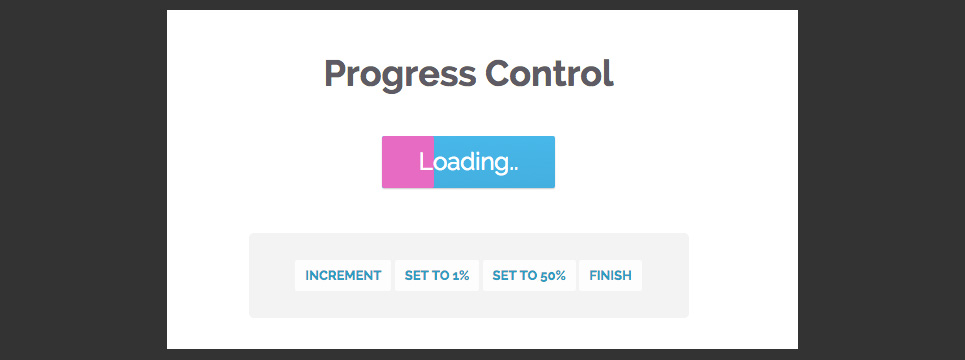
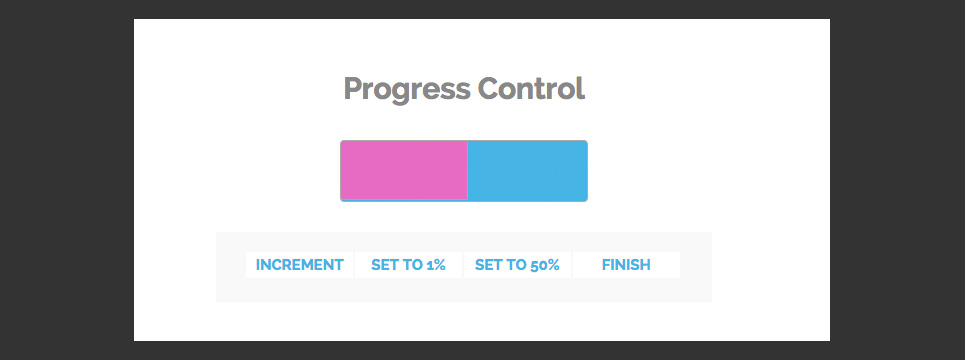
Component 10

diff --git a/components/10/jquery-ui.min.css b/components/10/jquery-ui.min.css
@@ -1,0 +1,7 @@
+/*! jQuery UI - v1.11.4 - 2015-08-01
+* http://jqueryui.com
+* Includes: core.css, progressbar.css, theme.css
+* To view and modify this theme, visit http://jqueryui.com/themeroller/
+* Copyright 2015 jQuery Foundation and other contributors; Licensed MIT */
+
[1 lines of base64/hex data omitted]

diff --git a/components/10/jquery-ui.min.js b/components/10/jquery-ui.min.js
@@ -1,0 +1,6 @@
+/*! jQuery UI - v1.11.4 - 2015-08-01
+* http://jqueryui.com
+* Includes: core.js, widget.js, progressbar.js
+* Copyright 2015 jQuery Foundation and other contributors; Licensed MIT */
+
+(function(e){"function"==typeof define&&define.amd?define(["jquery"],e):e(jQuery)})(function(e){function t(t,s){var n,a,o,r=t.nodeName.toLowerCase();return"area"===r?(n=t.parentNode,a=n.name,t.href&&a&&"map"===n.nodeName.toLowerCase()?(o=e("img[usemap='#"+a+"']")[0],!!o&&i(o)):!1):(/^(input|select|textarea|button|object)$/.test(r)?!t.disabled:"a"===r?t.href||s:s)&&i(t)}function i(t){return e.expr.filters.visible(t)&&!e(t).parents().addBack().filter(function(){return"hidden"===e.css(this,"visibility")}).length}e.ui=e.ui||{},e.extend(e.ui,{version:"1.11.4",keyCode:{BACKSPACE:8,COMMA:188,DELETE:46,DOWN:40,END:35,ENTER:13,ESCAPE:27,HOME:36,LEFT:37,PAGE_DOWN:34,PAGE_UP:33,PERIOD:190,RIGHT:39,SPACE:32,TAB:9,UP:38}}),e.fn.extend({scrollParent:function(t){var i=this.css("position"),s="absolute"===i,n=t?/(auto|scroll|hidden)/:/(auto|scroll)/,a=this.parents().filter(function(){var t=e(this);return s&&"static"===t.css("position")?!1:n.test(t.css("overflow")+t.css("overflow-y")+t.css("overflow-x"))}).eq(0);return"fixed"!==i&&a.length?a:e(this[0].ownerDocument||document)},uniqueId:function(){var e=0;return function(){return this.each(function(){this.id||(this.id="ui-id-"+ ++e)})}}(),removeUniqueId:function(){return this.each(function(){/^ui-id-\d+$/.test(this.id)&&e(this).removeAttr("id")})}}),e.extend(e.expr[":"],{data:e.expr.createPseudo?e.expr.createPseudo(function(t){return function(i){return!!e.data(i,t)}}):function(t,i,s){return!!e.data(t,s[3])},focusable:function(i){return t(i,!isNaN(e.attr(i,"tabindex")))},tabbable:function(i){var s=e.attr(i,"tabindex"),n=isNaN(s);return(n||s>=0)&&t(i,!n)}}),e("<a>").outerWidth(1).jquery||e.each(["Width","Height"],function(t,i){function s(t,i,s,a){return e.each(n,function(){i-=parseFloat(e.css(t,"padding"+this))||0,s&&(i-=parseFloat(e.css(t,"border"+this+"Width"))||0),a&&(i-=parseFloat(e.css(t,"margin"+this))||0)}),i}var n="Width"===i?["Left","Right"]:["Top","Bottom"],a=i.toLowerCase(),o={innerWidth:e.fn.innerWidth,innerHeight:e.fn.innerHeight,outerWidth:e.fn.outerWidth,outerHeight:e.fn.outerHeight};e.fn["inner"+i]=function(t){return void 0===t?o["inner"+i].call(this):this.each(function(){e(this).css(a,s(this,t)+"px")})},e.fn["outer"+i]=function(t,n){return"number"!=typeof t?o["outer"+i].call(this,t):this.each(function(){e(this).css(a,s(this,t,!0,n)+"px")})}}),e.fn.addBack||(e.fn.addBack=function(e){return this.add(null==e?this.prevObject:this.prevObject.filter(e))}),e("<a>").data("a-b","a").removeData("a-b").data("a-b")&&(e.fn.removeData=function(t){return function(i){return arguments.length?t.call(this,e.camelCase(i)):t.call(this)}}(e.fn.removeData)),e.ui.ie=!!/msie [\w.]+/.exec(navigator.userAgent.toLowerCase()),e.fn.extend({focus:function(t){return function(i,s){return"number"==typeof i?this.each(function(){var t=this;setTimeout(function(){e(t).focus(),s&&s.call(t)},i)}):t.apply(this,arguments)}}(e.fn.focus),disableSelection:function(){var e="onselectstart"in document.createElement("div")?"selectstart":"mousedown";return function(){return this.bind(e+".ui-disableSelection",function(e){e.preventDefault()})}}(),enableSelection:function(){return this.unbind(".ui-disableSelection")},zIndex:function(t){if(void 0!==t)return this.css("zIndex",t);if(this.length)for(var i,s,n=e(this[0]);n.length&&n[0]!==document;){if(i=n.css("position"),("absolute"===i||"relative"===i||"fixed"===i)&&(s=parseInt(n.css("zIndex"),10),!isNaN(s)&&0!==s))return s;n=n.parent()}return 0}}),e.ui.plugin={add:function(t,i,s){var n,a=e.ui[t].prototype;for(n in s)a.plugins[n]=a.plugins[n]||[],a.plugins[n].push([i,s[n]])},call:function(e,t,i,s){var n,a=e.plugins[t];if(a&&(s||e.element[0].parentNode&&11!==e.element[0].parentNode.nodeType))for(n=0;a.length>n;n++)e.options[a[n][0]]&&a[n][1].apply(e.element,i)}};var s=0,n=Array.prototype.slice;e.cleanData=function(t){return function(i){var s,n,a;for(a=0;null!=(n=i[a]);a++)try{s=e._data(n,"events"),s&&s.remove&&e(n).triggerHandler("remove")}catch(o){}t(i)}}(e.cleanData),e.widget=function(t,i,s){var n,a,o,r,h={},l=t.split(".")[0];return t=t.split(".")[1],n=l+"-"+t,s||(s=i,i=e.Widget),e.expr[":"][n.toLowerCase()]=function(t){return!!e.data(t,n)},e[l]=e[l]||{},a=e[l][t],o=e[l][t]=function(e,t){return this._createWidget?(arguments.length&&this._createWidget(e,t),void 0):new o(e,t)},e.extend(o,a,{version:s.version,_proto:e.extend({},s),_childConstructors:[]}),r=new i,r.options=e.widget.extend({},r.options),e.each(s,function(t,s){return e.isFunction(s)?(h[t]=function(){var e=function(){return i.prototype[t].apply(this,arguments)},n=function(e){return i.prototype[t].apply(this,e)};return function(){var t,i=this._super,a=this._superApply;return this._super=e,this._superApply=n,t=s.apply(this,arguments),this._super=i,this._superApply=a,t}}(),void 0):(h[t]=s,void 0)}),o.prototype=e.widget.extend(r,{widgetEventPrefix:a?r.widgetEventPrefix||t:t},h,{constructor:o,namespace:l,widgetName:t,widgetFullName:n}),a?(e.each(a._childConstructors,function(t,i){var s=i.prototype;e.widget(s.namespace+"."+s.widgetName,o,i._proto)}),delete a._childConstructors):i._childConstructors.push(o),e.widget.bridge(t,o),o},e.widget.extend=function(t){for(var i,s,a=n.call(arguments,1),o=0,r=a.length;r>o;o++)for(i in a[o])s=a[o][i],a[o].hasOwnProperty(i)&&void 0!==s&&(t[i]=e.isPlainObject(s)?e.isPlainObject(t[i])?e.widget.extend({},t[i],s):e.widget.extend({},s):s);return t},e.widget.bridge=function(t,i){var s=i.prototype.widgetFullName||t;e.fn[t]=function(a){var o="string"==typeof a,r=n.call(arguments,1),h=this;return o?this.each(function(){var i,n=e.data(this,s);return"instance"===a?(h=n,!1):n?e.isFunction(n[a])&&"_"!==a.charAt(0)?(i=n[a].apply(n,r),i!==n&&void 0!==i?(h=i&&i.jquery?h.pushStack(i.get()):i,!1):void 0):e.error("no such method '"+a+"' for "+t+" widget instance"):e.error("cannot call methods on "+t+" prior to initialization; "+"attempted to call method '"+a+"'")}):(r.length&&(a=e.widget.extend.apply(null,[a].concat(r))),this.each(function(){var t=e.data(this,s);t?(t.option(a||{}),t._init&&t._init()):e.data(this,s,new i(a,this))})),h}},e.Widget=function(){},e.Widget._childConstructors=[],e.Widget.prototype={widgetName:"widget",widgetEventPrefix:"",defaultElement:"<div>",options:{disabled:!1,create:null},_createWidget:function(t,i){i=e(i||this.defaultElement||this)[0],this.element=e(i),this.uuid=s++,this.eventNamespace="."+this.widgetName+this.uuid,this.bindings=e(),this.hoverable=e(),this.focusable=e(),i!==this&&(e.data(i,this.widgetFullName,this),this._on(!0,this.element,{remove:function(e){e.target===i&&this.destroy()}}),this.document=e(i.style?i.ownerDocument:i.document||i),this.window=e(this.document[0].defaultView||this.document[0].parentWindow)),this.options=e.widget.extend({},this.options,this._getCreateOptions(),t),this._create(),this._trigger("create",null,this._getCreateEventData()),this._init()},_getCreateOptions:e.noop,_getCreateEventData:e.noop,_create:e.noop,_init:e.noop,destroy:function(){this._destroy(),this.element.unbind(this.eventNamespace).removeData(this.widgetFullName).removeData(e.camelCase(this.widgetFullName)),this.widget().unbind(this.eventNamespace).removeAttr("aria-disabled").removeClass(this.widgetFullName+"-disabled "+"ui-state-disabled"),this.bindings.unbind(this.eventNamespace),this.hoverable.removeClass("ui-state-hover"),this.focusable.removeClass("ui-state-focus")},_destroy:e.noop,widget:function(){return this.element},option:function(t,i){var s,n,a,o=t;if(0===arguments.length)return e.widget.extend({},this.options);if("string"==typeof t)if(o={},s=t.split("."),t=s.shift(),s.length){for(n=o[t]=e.widget.extend({},this.options[t]),a=0;s.length-1>a;a++)n[s[a]]=n[s[a]]||{},n=n[s[a]];if(t=s.pop(),1===arguments.length)return void 0===n[t]?null:n[t];n[t]=i}else{if(1===arguments.length)return void 0===this.options[t]?null:this.options[t];o[t]=i}return this._setOptions(o),this},_setOptions:function(e){var t;for(t in e)this._setOption(t,e[t]);return this},_setOption:function(e,t){return this.options[e]=t,"disabled"===e&&(this.widget().toggleClass(this.widgetFullName+"-disabled",!!t),t&&(this.hoverable.removeClass("ui-state-hover"),this.focusable.removeClass("ui-state-focus"))),this},enable:function(){return this._setOptions({disabled:!1})},disable:function(){return this._setOptions({disabled:!0})},_on:function(t,i,s){var n,a=this;"boolean"!=typeof t&&(s=i,i=t,t=!1),s?(i=n=e(i),this.bindings=this.bindings.add(i)):(s=i,i=this.element,n=this.widget()),e.each(s,function(s,o){function r(){return t||a.options.disabled!==!0&&!e(this).hasClass("ui-state-disabled")?("string"==typeof o?a[o]:o).apply(a,arguments):void 0}"string"!=typeof o&&(r.guid=o.guid=o.guid||r.guid||e.guid++);var h=s.match(/^([\w:-]*)\s*(.*)$/),l=h[1]+a.eventNamespace,u=h[2];u?n.delegate(u,l,r):i.bind(l,r)})},_off:function(t,i){i=(i||"").split(" ").join(this.eventNamespace+" ")+this.eventNamespace,t.unbind(i).undelegate(i),this.bindings=e(this.bindings.not(t).get()),this.focusable=e(this.focusable.not(t).get()),this.hoverable=e(this.hoverable.not(t).get())},_delay:function(e,t){function i(){return("string"==typeof e?s[e]:e).apply(s,arguments)}var s=this;return setTimeout(i,t||0)},_hoverable:function(t){this.hoverable=this.hoverable.add(t),this._on(t,{mouseenter:function(t){e(t.currentTarget).addClass("ui-state-hover")},mouseleave:function(t){e(t.currentTarget).removeClass("ui-state-hover")}})},_focusable:function(t){this.focusable=this.focusable.add(t),this._on(t,{focusin:function(t){e(t.currentTarget).addClass("ui-state-focus")},focusout:function(t){e(t.currentTarget).removeClass("ui-state-focus")}})},_trigger:function(t,i,s){var n,a,o=this.options[t];if(s=s||{},i=e.Event(i),i.type=(t===this.widgetEventPrefix?t:this.widgetEventPrefix+t).toLowerCase(),i.target=this.element[0],a=i.originalEvent)for(n in a)n in i||(i[n]=a[n]);return this.element.trigger(i,s),!(e.isFunction(o)&&o.apply(this.element[0],[i].concat(s))===!1||i.isDefaultPrevented())}},e.each({show:"fadeIn",hide:"fadeOut"},function(t,i){e.Widget.prototype["_"+t]=function(s,n,a){"string"==typeof n&&(n={effect:n});var o,r=n?n===!0||"number"==typeof n?i:n.effect||i:t;n=n||{},"number"==typeof n&&(n={duration:n}),o=!e.isEmptyObject(n),n.complete=a,n.delay&&s.delay(n.delay),o&&e.effects&&e.effects.effect[r]?s[t](n):r!==t&&s[r]?s[r](n.duration,n.easing,a):s.queue(function(i){e(this)[t](),a&&a.call(s[0]),i()})}}),e.widget,e.widget("ui.progressbar",{version:"1.11.4",options:{max:100,value:0,change:null,complete:null},min:0,_create:function(){this.oldValue=this.options.value=this._constrainedValue(),this.element.addClass("ui-progressbar ui-widget ui-widget-content ui-corner-all").attr({role:"progressbar","aria-valuemin":this.min}),this.valueDiv=e("<div class='ui-progressbar-value ui-widget-header ui-corner-left'></div>").appendTo(this.element),this._refreshValue()},_destroy:function(){this.element.removeClass("ui-progressbar ui-widget ui-widget-content ui-corner-all").removeAttr("role").removeAttr("aria-valuemin").removeAttr("aria-valuemax").removeAttr("aria-valuenow"),this.valueDiv.remove()},value:function(e){return void 0===e?this.options.value:(this.options.value=this._constrainedValue(e),this._refreshValue(),void 0)},_constrainedValue:function(e){return void 0===e&&(e=this.options.value),this.indeterminate=e===!1,"number"!=typeof e&&(e=0),this.indeterminate?!1:Math.min(this.options.max,Math.max(this.min,e))},_setOptions:function(e){var t=e.value;delete e.value,this._super(e),this.options.value=this._constrainedValue(t),this._refreshValue()},_setOption:function(e,t){"max"===e&&(t=Math.max(this.min,t)),"disabled"===e&&this.element.toggleClass("ui-state-disabled",!!t).attr("aria-disabled",t),this._super(e,t)},_percentage:function(){return this.indeterminate?100:100*(this.options.value-this.min)/(this.options.max-this.min)},_refreshValue:function(){var t=this.options.value,i=this._percentage();this.valueDiv.toggle(this.indeterminate||t>this.min).toggleClass("ui-corner-right",t===this.options.max).width(i.toFixed(0)+"%"),this.element.toggleClass("ui-progressbar-indeterminate",this.indeterminate),this.indeterminate?(this.element.removeAttr("aria-valuenow"),this.overlayDiv||(this.overlayDiv=e("<div class='ui-progressbar-overlay'></div>").appendTo(this.valueDiv))):(this.element.attr({"aria-valuemax":this.options.max,"aria-valuenow":t}),this.overlayDiv&&(this.overlayDiv.remove(),this.overlayDiv=null)),this.oldValue!==t&&(this.oldValue=t,this._trigger("change")),t===this.options.max&&this._trigger("complete")}})});

diff --git a/components/10/jquery-ui.structure.min.css b/components/10/jquery-ui.structure.min.css
@@ -1,0 +1,5 @@
+/*! jQuery UI - v1.11.4 - 2015-08-01
+* http://jqueryui.com
+* Copyright 2015 jQuery Foundation and other contributors; Licensed MIT */
+
[1 lines of base64/hex data omitted]

diff --git a/components/10/component.css b/components/10/component.css
@@ -2,7 +2,73 @@
 ================================================================================
 COMPONENT STYLESHEET
 ================================================================================ */
+html { font-size: 62.5%; }
+body {
+    font: 1.6rem/1.4 'Raleway', sans-serif;  
+    max-width: 960px;
+    margin: 5rem auto;
+}
 
 /* HEADER ======================================== */
 
-/* HEADER ======================================== */
+section {
+    text-align: center;
+}
+
+h1 {
+    font-size: 3rem;
+    font-weight: 700;
+    color: #888;
+    margin-bottom: 3rem;
+}
+
+ul {
+    width: 60%;
+    background-color: #f9f9f9;
+    text-align: center;
+    margin: 3rem auto;
+    padding: 2rem 3rem 5rem;
+}
+
+li {
+    display: inline-block;
+    float: left;
+    width: 25%;
+}
+
+
+li a {
+    background: #fff;
+    display: block;
+    color: #46b4e5;
+    font-size: 1.5rem;
+    margin-right: 2%;
+    font-weight: 700;
+    text-transform: uppercase;
+    padding: 3% 3% 2% 3%;
+}
+
+div {
+    width: 30%;
+    margin: 0 auto;
+    color: #fff;
+    font-size: 2rem;
+    height: 6rem;
+    background: #46b4e5;
+}
+
+.ui-widget-header {
+    border: 1px solid #aaa;
+    background: #e76bc3!important;
+    color: #222;
+    font-weight: bold;
+}
+
+.ui-progressbar {
+    height: 3.5em!important;
+    text-align: left;
+    overflow: hidden;
+    background: #46b4e5!important;
+}
+
+

diff --git a/components/10/component.html b/components/10/component.html
@@ -4,23 +4,31 @@
 	<title>WSP Component: Michelle Munksgard</title>
 	<link rel="stylesheet" type="text/css" href="../../css/reset.css" />
 	<link rel="stylesheet" type="text/css" href="component.css" />
+    <link rel="stylesheet" type="text/css" href="jquery-ui.min.css" />
+    <link rel="stylesheet" type="text/css" href="jquery-ui.structure.min.css" />
+    <link href='http://fonts.googleapis.com/css?family=Raleway:400,700,300' rel='stylesheet' type='text/css'>
 </head>
 <body>
 
 	<!-- Component -->
     <section>
         <h1>Progress Control</h1>
-        <img src="" alt="Loader">
+        <div id="progressbar"></div>
+        
         <ul>
-            <li><button>Increment</button></li>
-            <li><button>Set to 1%</button></li>
-            <li><button>Set to 50%</button></li>
-            <li><button>Finish</button></li>
+            <li><a href="#increment" id="increment">Increment</a></li>
+            <li><a href="#1percent" id="1percent">Set to 1%</a></li>
+            <li><a href="#50percent" id="50percent">Set to 50%</a></li>
+            <li><a href="#finish" id="finish">Finish</a></li>
         </ul>
+        
     </section>
 	
 
 	<!-- End Component -->
-	
+    
+    <script src="//code.jquery.com/jquery-1.11.3.min.js"></script>
+<script src="jquery-ui.min.js"></script> 
+    <script src="progress.js"></script>
 </body>
 </html>

diff --git a/components/10/progress.js b/components/10/progress.js
@@ -1,0 +1,22 @@
+  $(function() {
+      
+    $( "#progressbar" ).progressbar({
+  value: 0
+        });
+
+
+      
+    $("#1percent").click(function() {
+        $("#progressbar").progressbar("option", "value", 1);
+       });
+      
+      $( "#50percent" ).click(function() {
+          $("#progressbar").progressbar( "value", 50);    
+    });
+      
+         $( "#finish" ).click(function() {
+          $("#progressbar").progressbar( "value", 100);    
+    });
+      
+      
+  });
